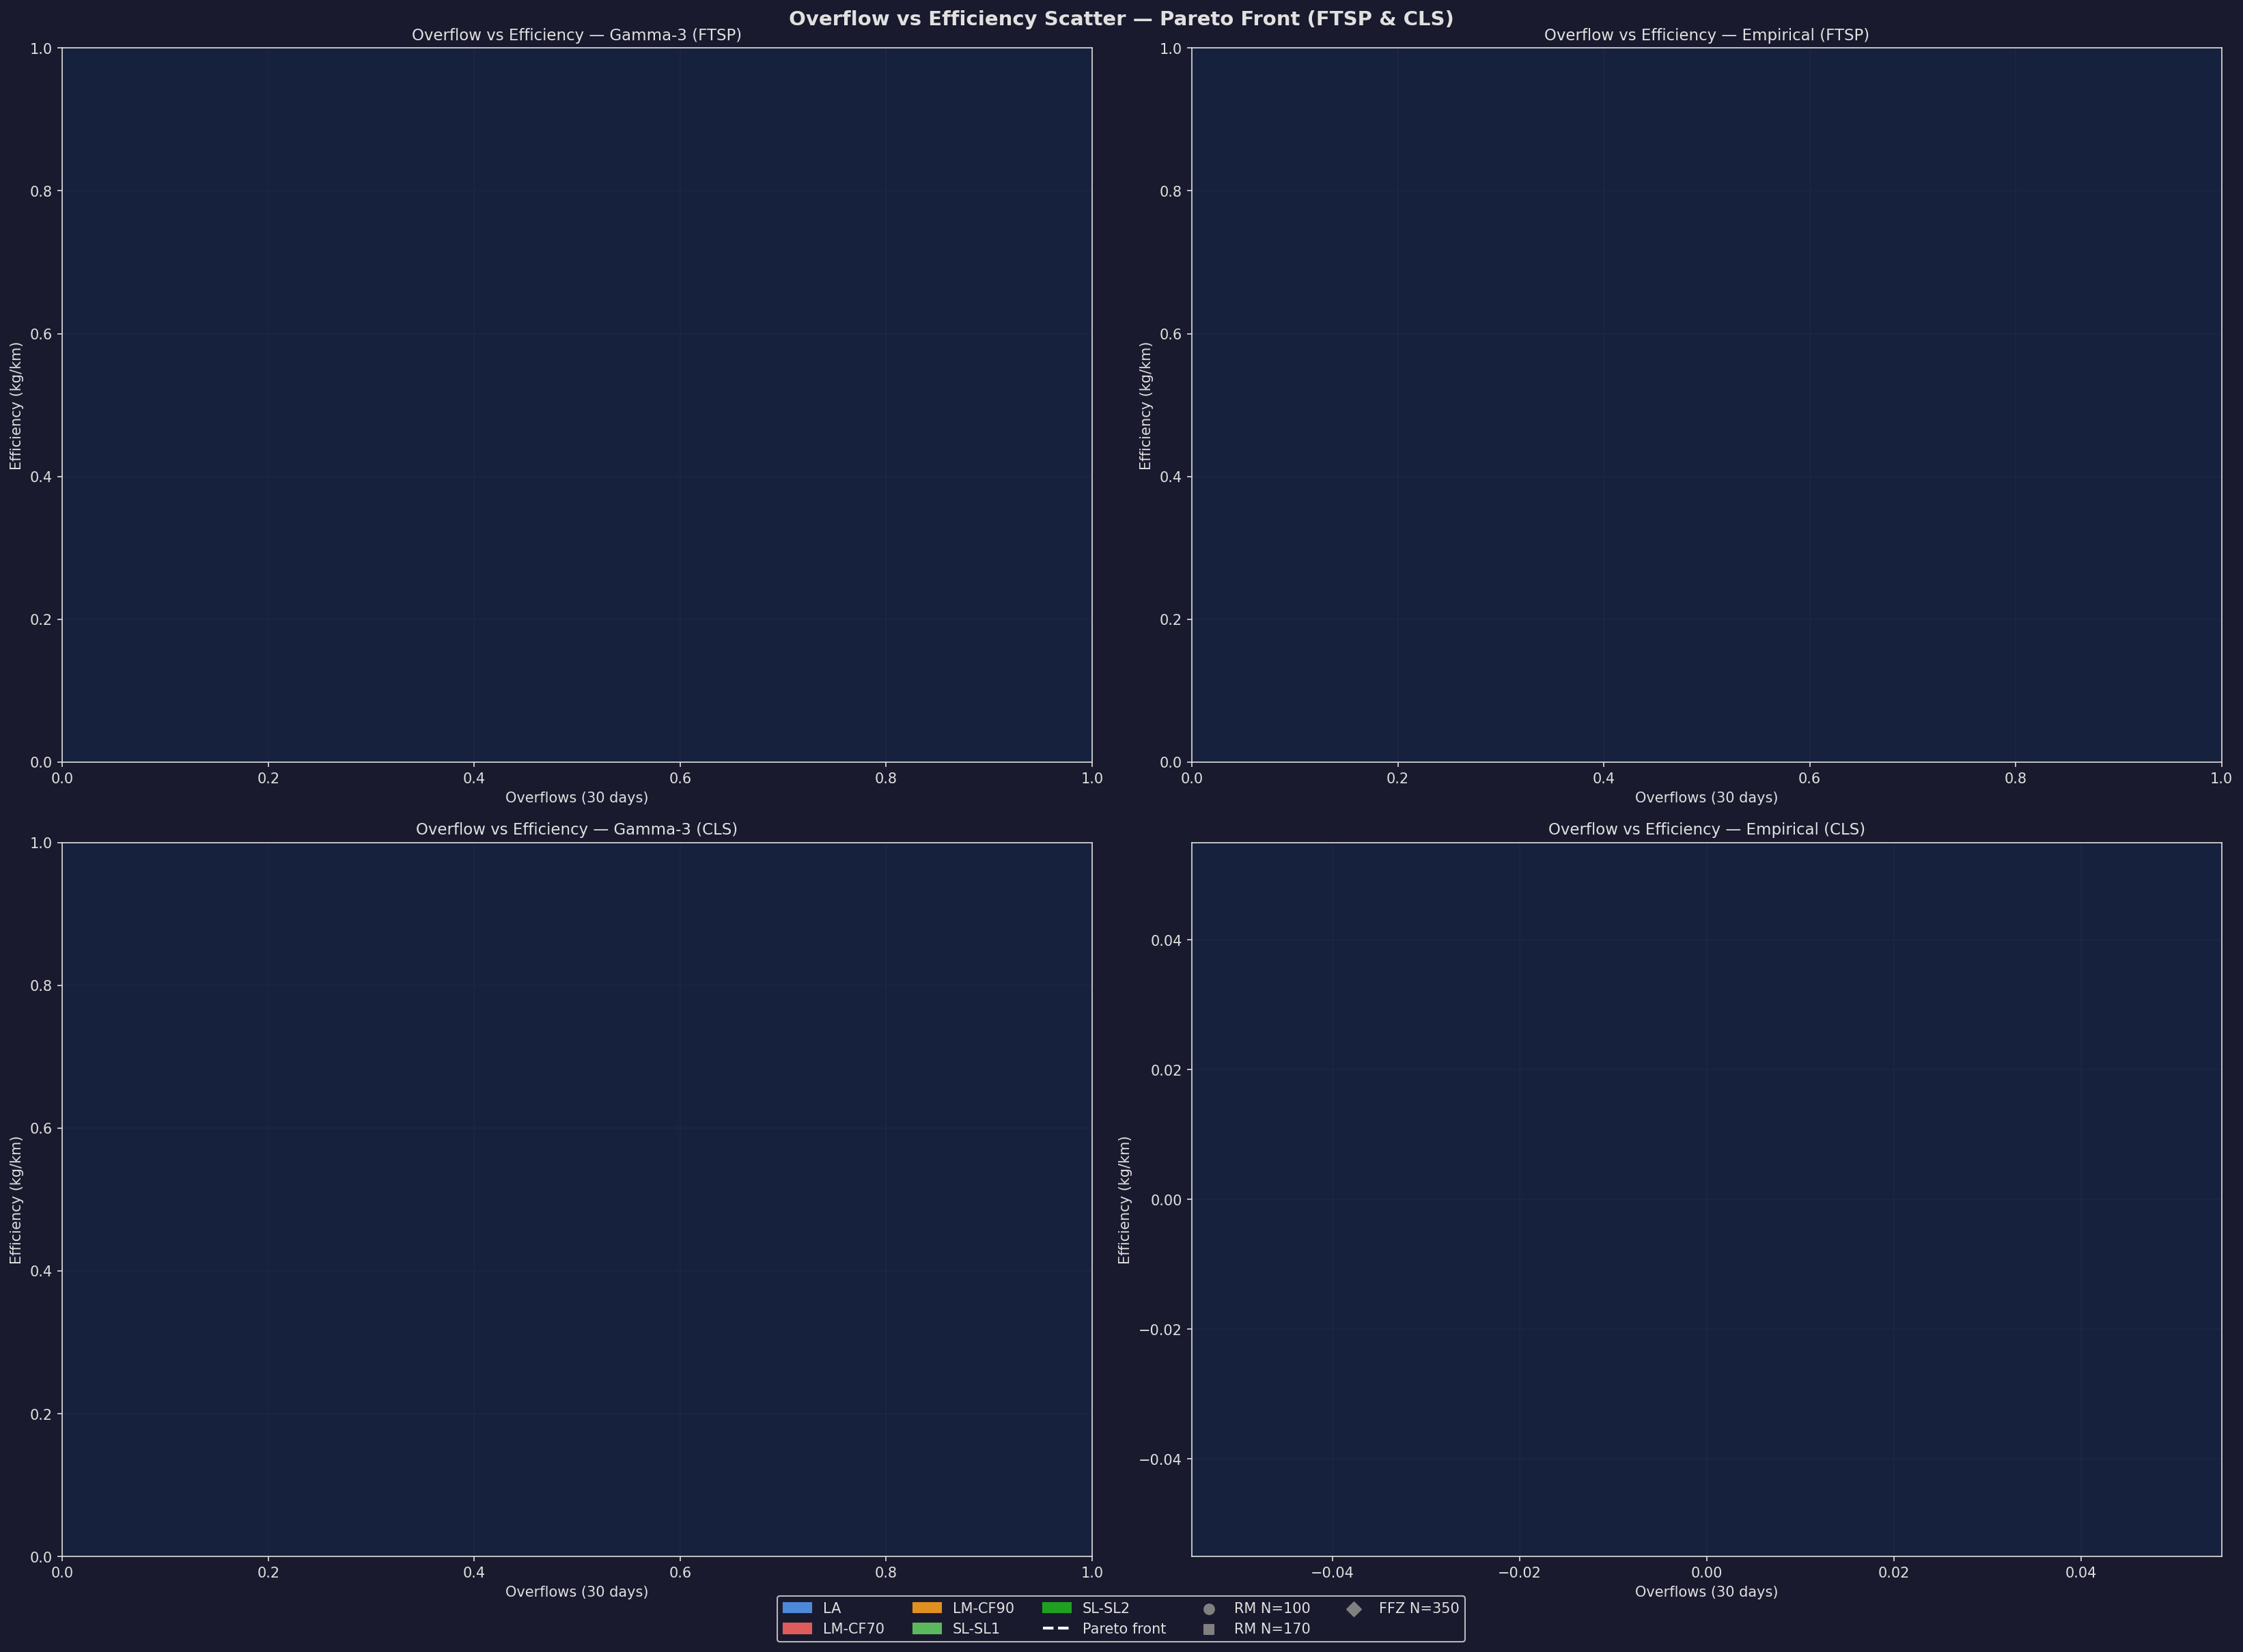
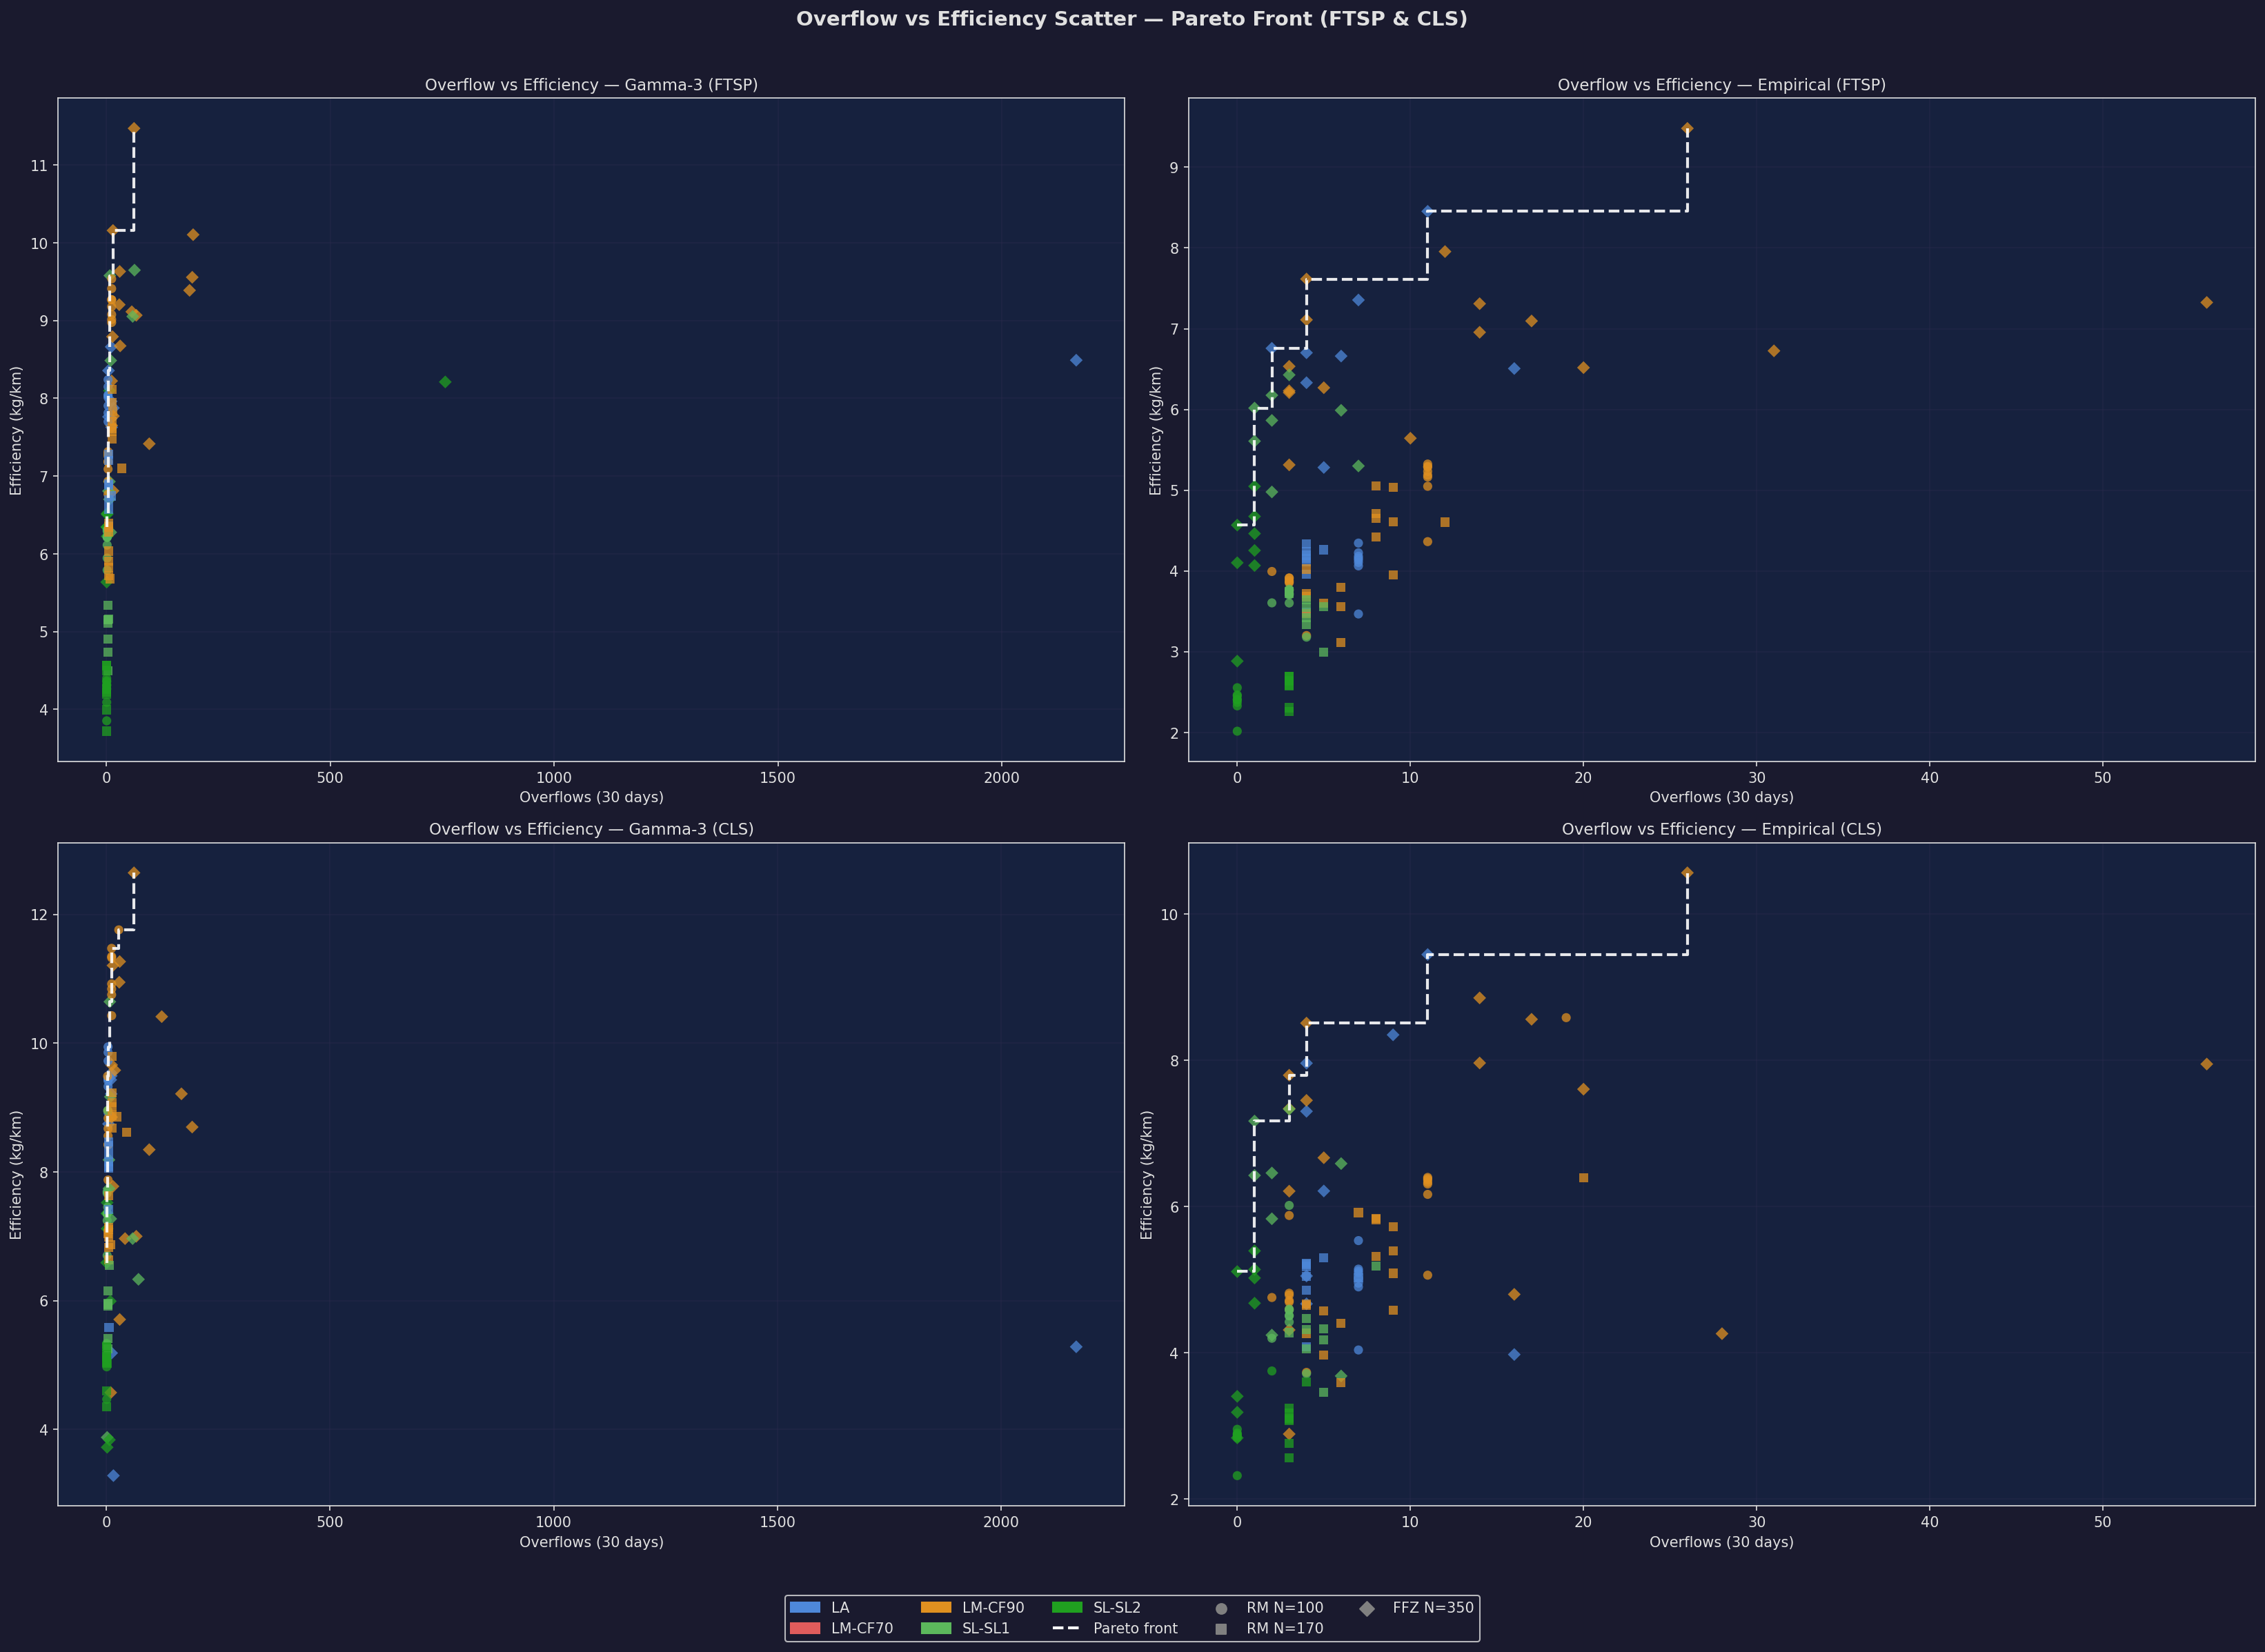
Fix pareto scatter empty panels and gen_simulation_analysis.py syntax errors
- Pareto scatter was empty due to groupby dropping NaN cf/sl_var rows; fix
  uses raw df directly and corrects float cf value comparison (70.0 not 'CF70')
- Fix N comparison: column is string so compare to '100'/'170' not int
- Fix nested f-string SyntaxError (Python <3.12) by pre-computing section8
- Fix two Unicode minus U+2212 characters causing SyntaxError in script

Claude-Session: https://claude.ai/code/session_01MMJAkmN9aD9F7hXRVayPQc

diff --git a/logic/scripts/gen_simulation_analysis.py b/logic/scripts/gen_simulation_analysis.py
@@ -355,13 +355,20 @@ def gen_pareto_scatter(dfm: pd.DataFrame, df_raw: pd.DataFrame, panels: list, ou
 
     def get_color(row):
         s = row["strategy"]
-        if s == "LA": return "#4e88d9"
-        if s == "LM": return "#e05c5c" if row.get("cf") == "CF70" else "#e09020"
-        return "#5cb85c" if row.get("sl_var") == "SL1" else "#20a020"
+        if s == "LA":
+            return "#4e88d9"
+        if s == "LM":
+            cf = row["cf"]
+            try:
+                return "#e05c5c" if float(cf) < 80 else "#e09020"
+            except (ValueError, TypeError):
+                return "#e09020"
+        sv = str(row["sl_var"]) if not (isinstance(row["sl_var"], float) and np.isnan(row["sl_var"])) else ""
+        return "#5cb85c" if sv == "SL1" else "#20a020"
 
     def get_marker(row):
         if "Figueira" in str(row["city"]): return "D"
-        return "o" if row["N"] == 100 else "s"
+        return "o" if str(row["N"]) == "100" else "s"
 
     def pareto_front(xs, ys):
         pts = sorted(zip(xs, ys), key=lambda p: (p[0], -p[1]))
@@ -679,7 +686,7 @@ def gen_ftsp_vs_cls(dfm: pd.DataFrame, out_dir: Path) -> tuple[Path, Path]:
     CONSTRUCTORS = dfm["constructor"].unique().tolist()
     col_labels = [f"{city_label(c,N)}\n{d[:3]}\n{s}" for c, N, d, s in configs]
     fig2, axes2 = plt.subplots(1, 2, figsize=(28, 10))
-    fig2.suptitle("FTSP vs CLS Delta Heatmap (CLS − FTSP)", fontsize=14, fontweight="bold")
+    fig2.suptitle("FTSP vs CLS Delta Heatmap (CLS - FTSP)", fontsize=14, fontweight="bold")
     for ax_i, (metric, cmap) in enumerate([("overflows","RdYlGn_r"),("kgkm","RdYlGn")]):
         ax = axes2[ax_i]
         ax.set_facecolor("#16213e")
@@ -991,6 +998,20 @@ def generate_markdown(df: pd.DataFrame, dfm: pd.DataFrame, panels: list,
         "| Balanced trade-off | LA | <!-- constructor --> | <!-- improver --> | <!-- notes --> |",
     ])
 
+    # Pre-compute conditional sections (avoid nested f-strings — not supported in Python <3.12)
+    if has_both_imp:
+        section8 = (
+            "\n    ## 8. FTSP vs CLS Route Improver Comparison\n\n"
+            f"    ![FTSP vs CLS Comparison]({figures_rel}/ftsp_vs_cls_comparison.png)\n\n"
+            "    *FTSP vs CLS scatter per metric. Points above the diagonal = CLS > FTSP; below = FTSP > CLS.*\n\n"
+            f"    ![FTSP vs CLS Delta Heatmap]({figures_rel}/ftsp_vs_cls_delta.png)\n\n"
+            "    *Delta heatmap (CLS - FTSP) per constructor x configuration. Red = FTSP better, green = CLS better.*\n\n"
+            f"    {PLACEHOLDER}\n\n"
+            "    ---\n"
+        )
+    else:
+        section8 = ""
+
     md = textwrap.dedent(f"""\
     # WSmart+ Route — Simulation Analysis Report
 
@@ -1177,21 +1198,7 @@ def generate_markdown(df: pd.DataFrame, dfm: pd.DataFrame, panels: list,
     {PLACEHOLDER}
 
     ---
-    {"" if not has_both_imp else f"""
-    ## 8. FTSP vs CLS Route Improver Comparison
-
-    ![FTSP vs CLS Comparison]({figures_rel}/ftsp_vs_cls_comparison.png)
-
-    *FTSP vs CLS scatter per metric. Points above the diagonal = CLS > FTSP; below = FTSP > CLS.*
-
-    ![FTSP vs CLS Delta Heatmap]({figures_rel}/ftsp_vs_cls_delta.png)
-
-    *Delta heatmap (CLS − FTSP) per constructor × configuration. Red = FTSP better, green = CLS better.*
-
-    {PLACEHOLDER}
-
-    ---
-    """}
+    {section8}
 
     {chr(10).join(city_sections)}
 